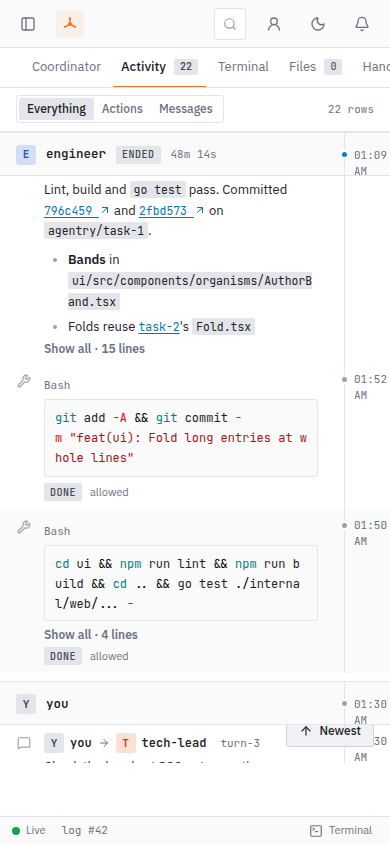
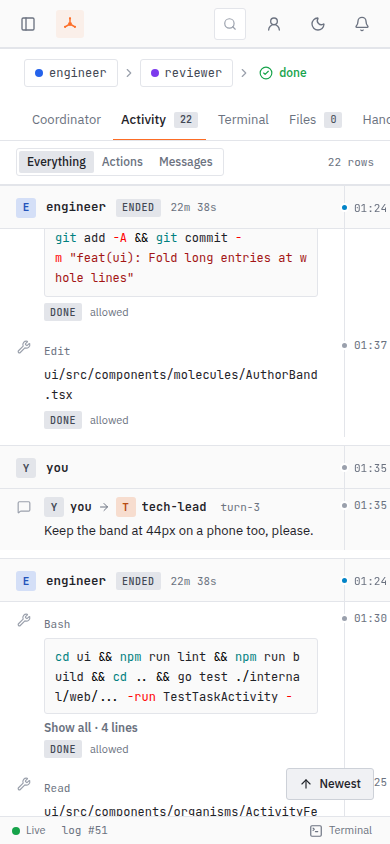
docs(design): re-take the after shots with the layout fixes, and move the found items under Fixed

diff --git a/docs/design/activity-readability.md b/docs/design/activity-readability.md
@@ -19,7 +19,7 @@ Before: the tabs as they were, from a fresh demo server with an empty data dir (
 | ![Activity before: raw Markdown, plain commands, faint authors](activity-readability/before/activity.png) | ![Activity after: author bands, Markdown, coloured commands, folded entries](activity-readability/after/activity-dark.png) |
 | ![Handoffs before: raw Markdown, a brief cut mid-line](activity-readability/before/handoffs.png) | ![Handoffs after: cards with author headers, titles, folded briefs and a footer that opens the turn](activity-readability/after/handoffs-dark.png) |
 
-Light: [Activity](activity-readability/after/activity-light.png), [Handoffs](activity-readability/after/handoffs-light.png). Scrolled with the wheel, a band or card header stuck at the top: [Activity](activity-readability/after/activity-scrolled.png) (the engineer's `continued` band), [Handoffs](activity-readability/after/handoffs-scrolled.png).
+Light: [Activity](activity-readability/after/activity-light.png), [Handoffs](activity-readability/after/handoffs-light.png). Scrolled with the wheel, a band or card header stuck at the top: [Activity](activity-readability/after/activity-scrolled.png) (the engineer's `turn-2` band), [Handoffs](activity-readability/after/handoffs-scrolled.png).
 
 Phone, 390 wide:
 
@@ -32,10 +32,14 @@ Wireframes: [Activity, desktop](activity-readability/activity-desktop.svg), [Act
 
 ### Found while taking the after shots
 
-- **The page scrolls past Activity into blank space.** Screen-reader-only text in the rows (the ` to ` between names, "(opens in a new tab)") is positioned against a box outside the tab's own scroller, so it isn't clipped by it and makes the page's scroller as tall as the whole feed (2,629px for a 924px window). Scrolling the page, over the Plan column or past the end of the feed, shows empty space: [screenshot](activity-readability/after/found/activity-page-scrolls-into-blank.png). Handoffs doesn't have it: each card's list item is the positioned box.
-- **A code box's language and copy button draw over a stuck Handoffs header.** When a card's header is stuck and a folded code box passes under it, the box's `go` label and copy button show on top of the header's lower edge (both are `z-10`; the later one wins): [screenshot](activity-readability/after/found/codebox-controls-over-handoff-header.png).
-- **Activity's rail times wrap on a phone** (`01:09` over `AM`), where the wireframe has them on one line: [screenshot](activity-readability/after/activity-phone-scrolled.png).
-- **Small:** a link's underline runs under the space before ↗; a task id or branch name can break at its hyphen (`task-` / `2`); the fold cuts a code box through its middle with no edge under it; the task's Done banner above the tabs still shows its summary's raw `**Markdown**` (outside this design's scope).
+- **Out of scope:** the task's Done banner above the tabs still shows its summary's raw `**Markdown**`.
+
+Fixed, and the shots above re-taken from a fresh demo server (the screenshots in [found/](activity-readability/after/found/) are the before):
+
+- **The page scrolled past Activity into blank space** ([before](activity-readability/after/found/activity-page-scrolls-into-blank.png)). Screen-reader-only text in the rows (` to `, "(opens in a new tab)") was positioned against a box outside the tab's scroller, so the page grew to the feed's height. The scroller is that box now, in Activity and the coordinator chat: at 1280×924 and 390 the page's scrollHeight equals its clientHeight and only the tab's scroller scrolls (on a phone the task page's own column scrolls as it always has, to exactly its content).
+- **A code box's language and Copy drew over a stuck Handoffs header** ([before](activity-readability/after/found/codebox-controls-over-handoff-header.png)). The corner has no z-index of its own now, so stuck headers and bands cover it in both tabs; the top bar and the phone drawer stay above the tab.
+- **Activity's rail times wrapped on a phone** (`01:09` over `AM`). Rail and Handoffs times are `{hh:mm}` as the copy deck says, five characters on the 24-hour clock, on one line.
+- **Small:** a link's underline stops at its label (the gap before ↗ is a margin); task ids, commits and one-word code such as a branch move to the next line whole instead of breaking at a hyphen, with no sideways scroll at 390; a fold that cuts through a code box ends with a 1px divider at the cut.
 
 ## What changes
 
